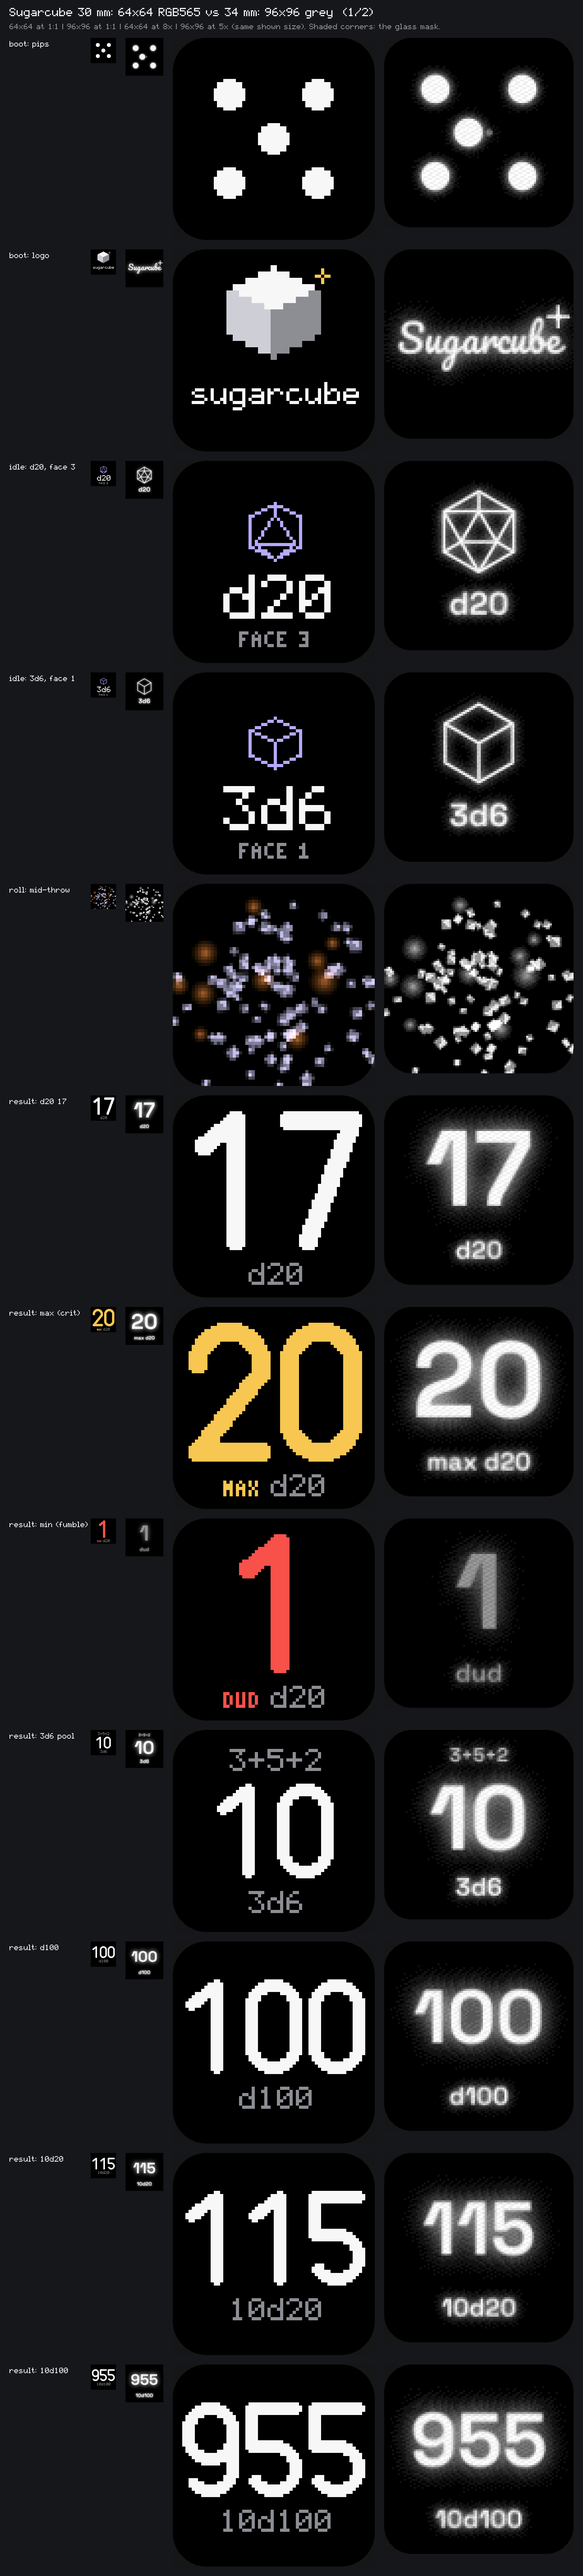
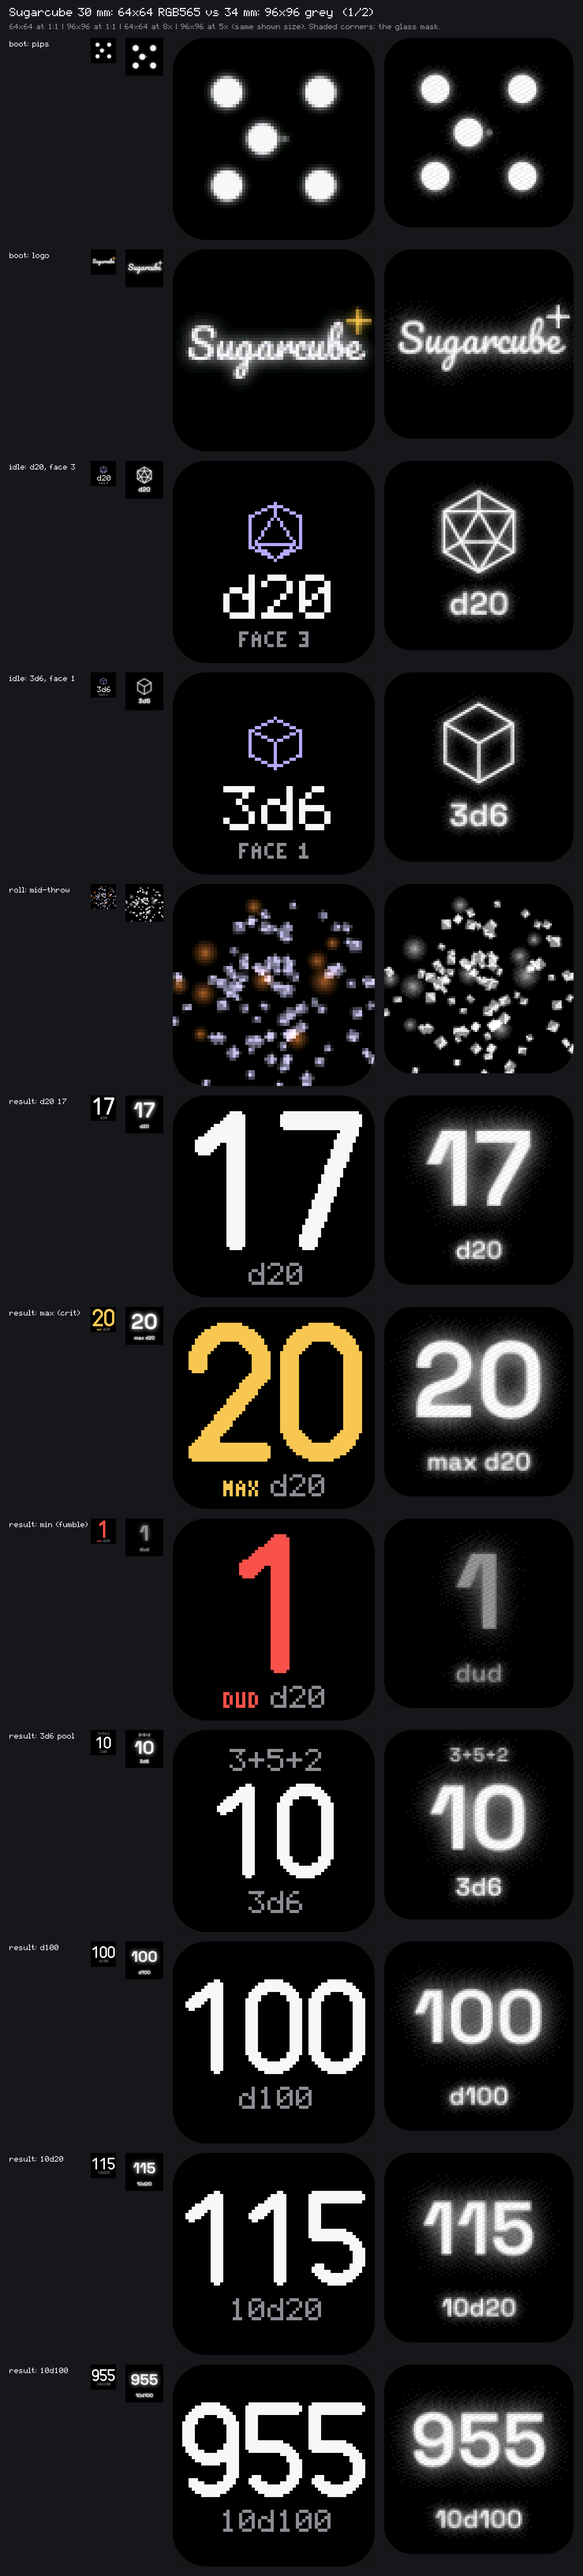
64×64 boot: the 96×96 tweened animation and script wordmark, in colour
Drop the 64×64 boot's stepped pixel pips, cube sprite and bitmap
'sugarcube' for the 96×96 boot drawn through the 64×64 transform: pips
that slide and grow between values, the centre pip squaring up into a
bouncing, wiggling sugar cube that bursts into crystals, and 'Sugarcube'
written on in the Pacifico script with a glint riding the pen.

The boot's colours are now a BootInk (one grey on the 96×96 die, so its
snapshots are unchanged); the 64×64 plays it in white with sugar
crystals and a gold glint.

Claude-Session: https://claude.ai/code/session_01Qh29zdzERweEWdKxWLFJdT

Changed region(s): [[0.3112, 0.0312, 0.6536, 0.1562], [0.1556, 0.0938, 0.1867, 0.125]]

diff --git a/packages/firmware/core/src/screens.rs b/packages/firmware/core/src/screens.rs
@@ -6,7 +6,7 @@ use core::fmt::Write as _;
 
 use heapless::{String, Vec};
 use libm::{cosf, fabsf, floorf, powf, roundf, sinf, sqrtf};
-use smokebomb_hal::{AssetStore, Grey96, Target};
+use smokebomb_hal::{AssetStore, Color, Grey96, Target};
 use smokebomb_shared::types::MAX_POT_DICE;
 use smokebomb_shared::{DieKind, PotFace, RollRecord};
 
@@ -103,7 +103,37 @@ const PIP_GRID: f32 = ACTIVE * 0.46;
 const PIP_RADIUS: f32 = ACTIVE * 0.15;
 const PIP_GLOW: f32 = 10.0;
 
-fn draw_pips<A: AssetStore, T: Target>(c: &mut Ctx<A, T>, from: u8, to: u8, t: f32, alpha: f32, scale: f32) {
+/// The boot's colours: all one grey on the 96×96 die; the 64×64 colour
+/// panel plays the same animation in its palette.
+#[derive(Clone, Copy)]
+pub struct BootInk {
+    /// The pips and the sugar cube.
+    pub pips: Color,
+    /// The crystals the cube dissolves into.
+    pub crystals: Color,
+    /// The wordmark.
+    pub word: Color,
+    /// The glint that rides the pen and twinkles on the last letter.
+    pub glint: Color,
+}
+
+const GREY_INK: BootInk = BootInk {
+    pips: Color::grey(FG),
+    crystals: Color::grey(FG),
+    word: Color::grey(FG),
+    glint: Color::grey(FG),
+};
+
+#[allow(clippy::too_many_arguments)]
+fn draw_pips<A: AssetStore, T: Target>(
+    c: &mut Ctx<A, T>,
+    from: u8,
+    to: u8,
+    t: f32,
+    alpha: f32,
+    scale: f32,
+    ink: Color,
+) {
     let (a, b) = (pips(from), pips(to));
     let e = smoothstep(t);
     for i in 0..a.len().max(b.len()) {
@@ -117,7 +147,7 @@ fn draw_pips<A: AssetStore, T: Target>(c: &mut Ctx<A, T>, from: u8, to: u8, t: f
         }
         let x = (pa.0 + (pb.0 - pa.0) * e) * PIP_GRID;
         let y = (pa.1 + (pb.1 - pa.1) * e) * PIP_GRID;
-        let style = Style::new(FG, alpha * (sc * 1.5).min(1.0), PIP_GLOW);
+        let style = Style::color(ink, alpha * (sc * 1.5).min(1.0), PIP_GLOW);
         c.painter.fill_circle(x, y, PIP_RADIUS * sc, style);
     }
 }
@@ -125,13 +155,24 @@ fn draw_pips<A: AssetStore, T: Target>(c: &mut Ctx<A, T>, from: u8, to: u8, t: f
 /// One face of the boot animation. `t` is seconds since boot, `index` the
 /// face index, `top` whether this face was on top when boot started.
 pub fn draw_boot<A: AssetStore, T: Target>(c: &mut Ctx<A, T>, index: usize, top: bool, t: f32) {
+    draw_boot_in(c, index, top, t, GREY_INK);
+}
+
+/// [`draw_boot`] in the colours of `ink`.
+pub fn draw_boot_in<A: AssetStore, T: Target>(
+    c: &mut Ctx<A, T>,
+    index: usize,
+    top: bool,
+    t: f32,
+    ink: BootInk,
+) {
     // A slight stagger around the cube.
     let t = t - if top { 0.0 } else { index as f32 * 0.05 };
     if t < 0.0 {
         return;
     }
     if top && t >= LOOP_END {
-        draw_boot_finale(c, t - LOOP_END);
+        draw_boot_finale(c, t - LOOP_END, ink);
         return;
     }
     // The top face starts on 6 so the loop lands it on 5.
@@ -141,7 +182,7 @@ pub fn draw_boot<A: AssetStore, T: Target>(c: &mut Ctx<A, T>, index: usize, top:
     let steps_t = t - 0.25;
     let fade = ((steps_t - BOOT_STEP * BOOT_STEPS as f32) / BOOT_FADE).clamp(0.0, 1.0);
     if steps_t < 0.0 {
-        draw_pips(c, v0, v0, 0.0, appear, appear);
+        draw_pips(c, v0, v0, 0.0, appear, appear, ink.pips);
         return;
     }
     let k = (floorf(steps_t / BOOT_STEP) as u32).min(BOOT_STEPS);
@@ -153,27 +194,27 @@ pub fn draw_boot<A: AssetStore, T: Target>(c: &mut Ctx<A, T>, index: usize, top:
     let from = val(k.min(BOOT_STEPS - 1));
     let to = val((k + 1).min(BOOT_STEPS));
     let from = if k >= BOOT_STEPS { to } else { from };
-    draw_pips(c, from, to, local, 1.0 - fade, 1.0 - 0.6 * fade);
+    draw_pips(c, from, to, local, 1.0 - fade, 1.0 - 0.6 * fade, ink.pips);
 }
 
 /// Top face after the loop: the corner pips shoot outward, the centre pip
 /// squares up into a sugar cube, wiggles and dissolves into glittering
 /// crystals, and the name writes itself on in script with a sparkle.
-fn draw_boot_finale<A: AssetStore, T: Target>(c: &mut Ctx<A, T>, u: f32) {
+fn draw_boot_finale<A: AssetStore, T: Target>(c: &mut Ctx<A, T>, u: f32, ink: BootInk) {
     if u < 0.35 {
         let e = powf(u / 0.35, 2.0);
         let d = PIP_GRID * (1.0 + 1.4 * e);
-        let style = Style::new(FG, 1.0 - e, PIP_GLOW);
+        let style = Style::color(ink.pips, 1.0 - e, PIP_GLOW);
         for (x, y) in [(-1.0, -1.0), (1.0, -1.0), (-1.0, 1.0), (1.0, 1.0)] {
             c.painter
                 .fill_circle(x * d, y * d, PIP_RADIUS * (1.0 - 0.4 * e), style);
         }
     }
     if u < DISSOLVE_AT + 0.2 {
-        draw_sugar_cube(c, u);
+        draw_sugar_cube(c, u, ink.pips);
     }
     if u > DISSOLVE_AT {
-        draw_crystals(c, u - DISSOLVE_AT);
+        draw_crystals(c, u - DISSOLVE_AT, ink.crystals);
     }
     let out = if u < 3.8 {
         1.0
@@ -182,12 +223,26 @@ fn draw_boot_finale<A: AssetStore, T: Target>(c: &mut Ctx<A, T>, u: f32) {
     };
     let reveal = smoothstep(((u - 1.15) / 0.95).clamp(0.0, 1.0));
     if reveal > 0.0 && out > 0.0 {
-        c.script(WORDMARK, 0.0, 0.0, WORDMARK_PX, reveal, Style::new(FG, out, 14.0));
+        c.script(
+            WORDMARK,
+            0.0,
+            0.0,
+            WORDMARK_PX,
+            reveal,
+            Style::color(ink.word, out, 14.0),
+        );
         let width = c.fonts.measure_in(c.assets, SCRIPT, WORDMARK, WORDMARK_PX);
         // A glint rides the pen, then twinkles once on the last letter.
         let pen = -width / 2.0 + width * reveal;
         if reveal < 1.0 {
-            draw_sparkle(c, pen, -6.0, 5.0 * sinf(reveal * core::f32::consts::PI), out);
+            draw_sparkle(
+                c,
+                pen,
+                -6.0,
+                5.0 * sinf(reveal * core::f32::consts::PI),
+                out,
+                ink.glint,
+            );
         }
         let tw = (u - 2.25) / 0.5;
         if (0.0..1.0).contains(&tw) {
@@ -197,6 +252,7 @@ fn draw_boot_finale<A: AssetStore, T: Target>(c: &mut Ctx<A, T>, u: f32) {
                 -24.0,
                 9.0 * sinf(tw * core::f32::consts::PI),
                 out,
+                ink.glint,
             );
         }
     }
@@ -204,7 +260,7 @@ fn draw_boot_finale<A: AssetStore, T: Target>(c: &mut Ctx<A, T>, u: f32) {
 
 /// The centre pip becomes a sugar cube: a circle whose corners square up
 /// with a little bounce, a wiggle, then it shrinks away as it dissolves.
-fn draw_sugar_cube<A: AssetStore, T: Target>(c: &mut Ctx<A, T>, u: f32) {
+fn draw_sugar_cube<A: AssetStore, T: Target>(c: &mut Ctx<A, T>, u: f32, ink: Color) {
     let square = smoothstep((u / 0.4).min(1.0));
     let bounce = 1.0 + 0.18 * sinf((u / 0.4).min(1.0) * core::f32::consts::PI);
     let dissolve = ((u - DISSOLVE_AT) / 0.2).clamp(0.0, 1.0);
@@ -221,7 +277,7 @@ fn draw_sugar_cube<A: AssetStore, T: Target>(c: &mut Ctx<A, T>, u: f32) {
     };
     let (sn, cs) = (sinf(wiggle), cosf(wiggle));
     let e = half * 1.5;
-    let style = Style::new(FG, 1.0 - dissolve, PIP_GLOW);
+    let style = Style::color(ink, 1.0 - dissolve, PIP_GLOW);
     c.painter.shape((-e, -e, e, e), style, |x, y| {
         let (rx, ry) = (x * cs + y * sn, -x * sn + y * cs);
         rounded_box(rx, ry, half, round)
@@ -238,7 +294,7 @@ fn rounded_box(x: f32, y: f32, half: f32, r: f32) -> f32 {
 /// Sugar crystals thrown out as the cube dissolves: little tumbling squares
 /// that drift outward, slow down, twinkle and fade. `v` is seconds since
 /// the dissolve.
-fn draw_crystals<A: AssetStore, T: Target>(c: &mut Ctx<A, T>, v: f32) {
+fn draw_crystals<A: AssetStore, T: Target>(c: &mut Ctx<A, T>, v: f32, ink: Color) {
     const N: usize = 14;
     const LIFE: f32 = 1.5;
     if v >= LIFE {
@@ -263,7 +319,7 @@ fn draw_crystals<A: AssetStore, T: Target>(c: &mut Ctx<A, T>, v: f32) {
     let alpha = (1.0 - v / LIFE) * twinkle;
     let e = ACTIVE;
     c.painter
-        .shape((-e, -e, e, e), Style::new(FG, alpha, 4.0), |x, y| {
+        .shape((-e, -e, e, e), Style::color(ink, alpha, 4.0), |x, y| {
             let mut d = f32::MAX;
             for &(cx, cy, h, spin) in &crystals {
                 let (dx, dy) = (x - cx, y - cy);
@@ -283,14 +339,15 @@ fn frac(x: f32) -> f32 {
 }
 
 /// A four-point sparkle of arm length `r` centred on `(x, y)`.
-fn draw_sparkle<A: AssetStore, T: Target>(c: &mut Ctx<A, T>, x: f32, y: f32, r: f32, alpha: f32) {
+fn draw_sparkle<A: AssetStore, T: Target>(c: &mut Ctx<A, T>, x: f32, y: f32, r: f32, alpha: f32, ink: Color) {
     if r <= 0.3 || alpha <= 0.0 {
         return;
     }
     let long: [&[(f32, f32)]; 2] = [&[(x - r, y), (x + r, y)], &[(x, y - r), (x, y + r)]];
     c.painter
-        .stroke_paths(&long, (r * 0.28).max(1.2), Style::new(FG, alpha, 8.0));
-    c.painter.fill_circle(x, y, r * 0.3, Style::new(FG, alpha, 0.0));
+        .stroke_paths(&long, (r * 0.28).max(1.2), Style::color(ink, alpha, 8.0));
+    c.painter
+        .fill_circle(x, y, r * 0.3, Style::color(ink, alpha, 0.0));
 }
 
 // ---------- setup label (C2) ----------

diff --git a/packages/firmware/core/src/screens64.rs b/packages/firmware/core/src/screens64.rs
@@ -24,7 +24,7 @@ use crate::menu::{Draft, Page, Setup};
 use crate::nest::{ChargeView, Label, NestFace, Screen};
 use crate::palette64 as pal;
 use crate::pigs::{throw_label, Locked, Outcome, Symbol, Throw, Token};
-use crate::screens::{self, setup_label, Ctx, BOOT_FADE, BOOT_STEP, BOOT_STEPS, FACE_START, LOOP_END};
+use crate::screens::{self, setup_label, Ctx, FACE_START};
 use crate::smoke::Special;
 use crate::sprites64 as spr;
 
@@ -323,100 +323,20 @@ pub fn draw_idle<A: AssetStore, T: Target>(
 
 // ---------- boot (C1) ----------
 
-/// Pip slots for a value, in units of the pip grid (as the 96×96 boot).
-fn pip_slots(value: u8) -> &'static [(i8, i8)] {
-    match value {
-        1 => &[(0, 0)],
-        2 => &[(-1, -1), (1, 1)],
-        3 => &[(-1, -1), (1, 1), (0, 0)],
-        4 => &[(-1, -1), (1, 1), (1, -1), (-1, 1)],
-        5 => &[(-1, -1), (1, 1), (1, -1), (-1, 1), (0, 0)],
-        _ => &[(-1, -1), (1, 1), (1, -1), (-1, 1), (-1, 0), (1, 0)],
-    }
-}
-
-/// Pip grid spacing, px.
-const PIP_STEP: f32 = 14.0;
-
-fn draw_pips<T: Target>(p: &mut Painter<T>, value: u8, colour: Color, alpha: f32) {
-    for &(sx, sy) in pip_slots(value) {
-        draw_centered(
-            p,
-            &spr::PIP,
-            sx as f32 * PIP_STEP,
-            sy as f32 * PIP_STEP,
-            1.0,
-            style(colour, alpha),
-        );
-    }
-}
-
-/// The boot on one face: the pips count round as on the 96×96 die (same
-/// timing), then the top face shows the sugar cube and writes `sugarcube`
-/// under it, with a gold sparkle.
+/// The boot on one face: the 96×96 die's animation, drawn smooth through
+/// the 64×64 transform: the pips slide and grow between values, the top
+/// face's centre pip squares up into a sugar cube that wiggles and bursts
+/// into crystals, and `Sugarcube` writes itself on in the script with a
+/// glint riding the pen. In colour: white pips and cube, sugar crystals and
+/// a gold glint.
 pub fn draw_boot<A: AssetStore, T: Target>(c: &mut Ctx<A, T>, index: usize, top: bool, t: f32) {
-    let t = t - if top { 0.0 } else { index as f32 * 0.05 };
-    if t < 0.0 {
-        return;
-    }
-    if top && t >= LOOP_END {
-        in_pixels(c, |p| draw_boot_finale(p, t - LOOP_END));
-        return;
-    }
-    let v0 = if top { 6 } else { FACE_START[index] };
-    let val = |k: u32| ((v0 as u32 - 1 + k) % 6 + 1) as u8;
-    let appear = (t / 0.25).min(1.0);
-    let steps_t = t - 0.25;
-    let fade = ((steps_t - BOOT_STEP * BOOT_STEPS as f32) / BOOT_FADE).clamp(0.0, 1.0);
-    // Pixel pips can't slide by fractions: each step lands at once, half
-    // way through the 96×96 die's tween.
-    let value = if steps_t < 0.0 {
-        v0
-    } else {
-        let k = floorf(steps_t / BOOT_STEP) as u32;
-        let into = steps_t - k as f32 * BOOT_STEP;
-        val((k + (into >= 0.11) as u32).min(BOOT_STEPS))
+    let ink = screens::BootInk {
+        pips: pal::WHITE,
+        crystals: pal::SUGAR,
+        word: pal::WHITE,
+        glint: pal::GOLD,
     };
-    in_pixels(c, |p| draw_pips(p, value, pal::WHITE, appear * (1.0 - fade)));
-}
-
-fn draw_boot_finale<T: Target>(p: &mut Painter<T>, u: f32) {
-    let fade = 1.0 - ((u - 3.8) / 0.4).clamp(0.0, 1.0);
-    if fade <= 0.0 {
-        return;
-    }
-    // The last pips go as the cube arrives.
-    if u < 0.35 {
-        draw_pips(p, 5, pal::WHITE, 1.0 - u / 0.35);
-    }
-    let cube = (u / 0.3).min(1.0) * fade;
-    // The 15×15 cube at 2×, its layers placed from the shared box (each
-    // layer alone is shorter than the cube).
-    let (x, y) = (-15.0, -27.0);
-    draw_glyph(p, &spr::CUBE_TOP, x, y, 2.0, style(pal::WHITE, cube));
-    draw_glyph(p, &spr::CUBE_LEFT, x, y, 2.0, style(Color::hex(0xC9CCD3), cube));
-    draw_glyph(p, &spr::CUBE_RIGHT, x, y, 2.0, style(pal::DIM, cube));
-    // `sugarcube` writes itself on, a letter at a time.
-    const WORD: &str = "sugarcube";
-    let w = (((u - 1.15) / 0.95).clamp(0.0, 1.0) * WORD.len() as f32 + 0.999) as usize;
-    if u >= 1.15 && w > 0 {
-        let x0 = -floorf(TEXT.measure(WORD) as f32 / 2.0);
-        TEXT.draw(
-            p,
-            &WORD[..w.min(WORD.len())],
-            x0,
-            10.0,
-            1.0,
-            Align::Left,
-            style(pal::WHITE, fade),
-        );
-    }
-    // A sparkle on the cube's corner.
-    let s = (u - 2.25) / 0.5;
-    if (0.0..1.0).contains(&s) {
-        let a = sinf(core::f32::consts::PI * s);
-        draw_centered(p, &spr::SPARKLE, 15.0, -24.0, 1.0, style(pal::GOLD, a * fade));
-    }
+    screens::draw_boot_in(c, index, top, t, ink);
 }
 
 // ---------- menu (C3): the die picker and the other pages ----------

diff --git a/docs/30mm/README.md b/docs/30mm/README.md
@@ -55,7 +55,7 @@ Screen code has no target checks.
   | grey | secondary text |
 
 - **Screens with a 64×64 design:**
-  - boot and logo,
+  - boot and logo: the 96×96 animation (sliding pips, the sugar cube, crystals, the script wordmark) drawn smooth through the 64×64 transform, in white with sugar crystals and a gold glint,
   - idle (die icon, setup and face number),
   - roll animation (violet sugar, orange embers, gold sparks),
   - result, including max, fumble, pools, d100 and 10d100,
